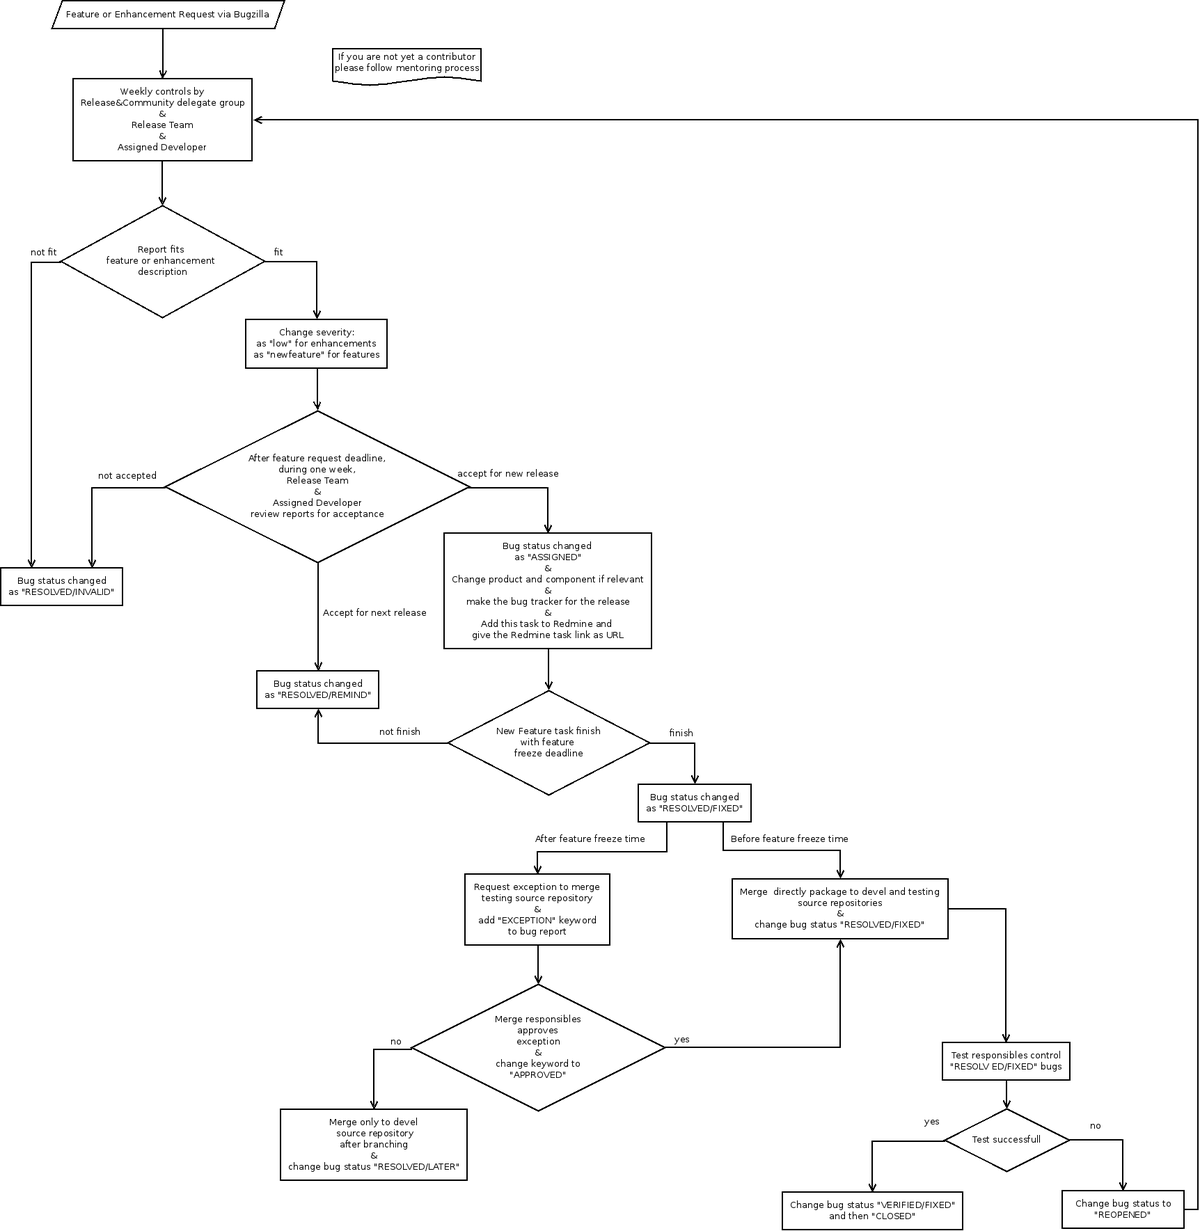
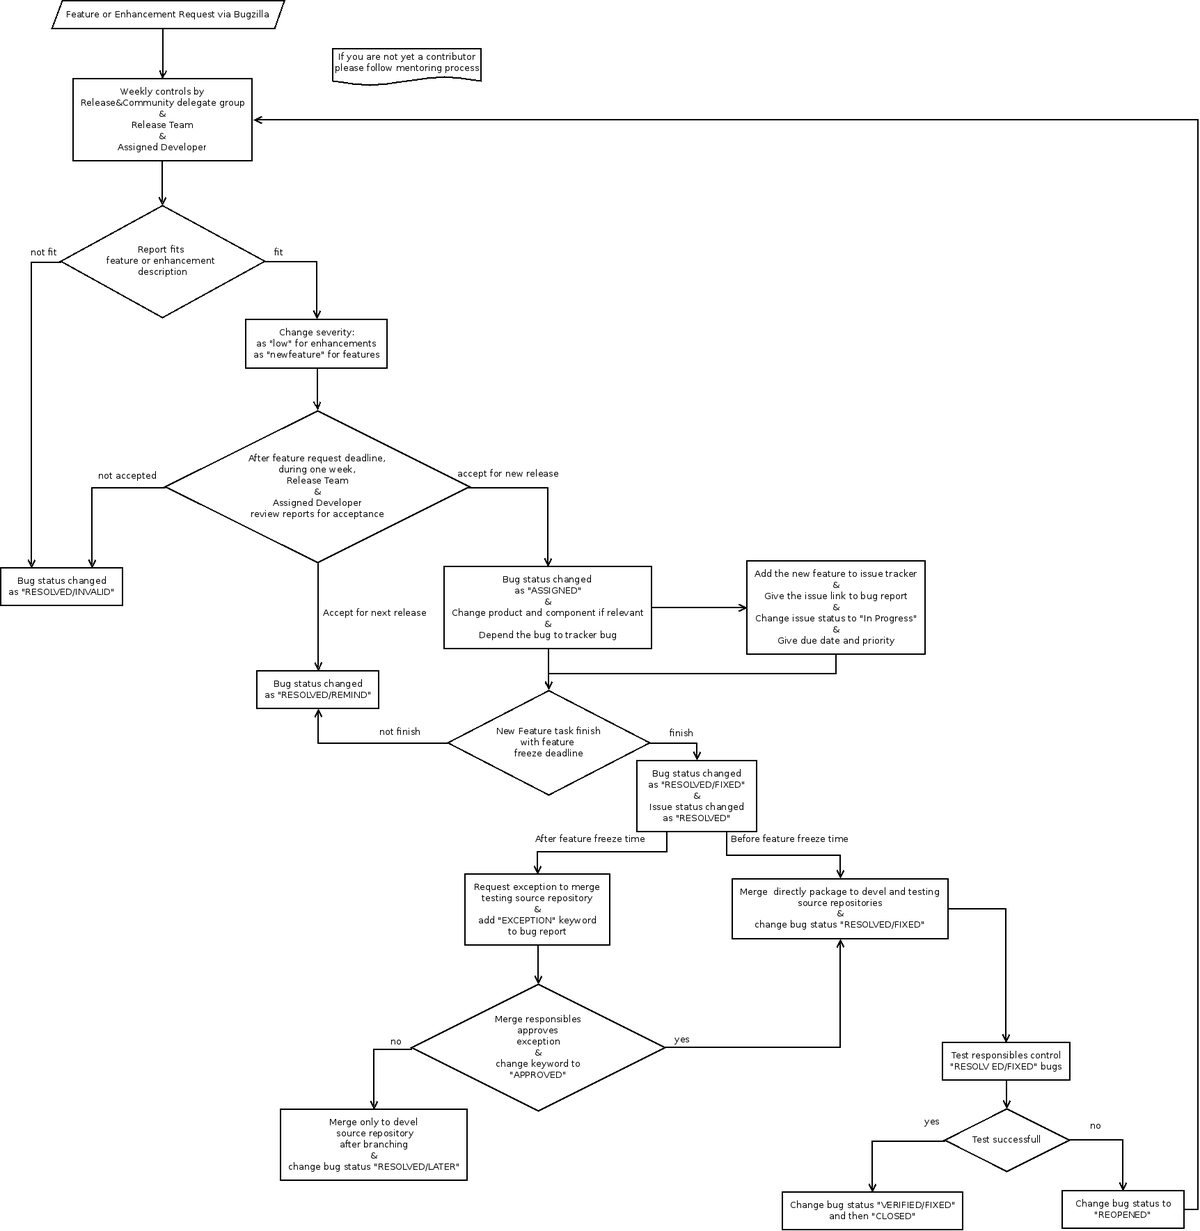
bug cycle, bug triage docs updated, priority and issue tracker part is added.

Changed region(s): [[0.3689, 0.4353, 0.5226, 0.5285], [0.5226, 0.6218, 0.6148, 0.684], [0.6456, 0.4664, 0.7378, 0.5285]]

diff --git a/doc/en/developer.pardus.org.tr/source/guides/bugtracking/bug_cycle.rst b/doc/en/developer.pardus.org.tr/source/guides/bugtracking/bug_cycle.rst
@@ -8,50 +8,85 @@
 :Version: 0.2
 
 Bug Cycle
-=========
+~~~~~~~~~
 
  .. image:: images/bugcycle.png
 
-This document gives information about Pardus bug tracking system process. The process that manage from Pardus bugzilla: package review, new contributor, security process are not included in this process.
+This document gives information about Pardus bug tracking system process.
 
-    #. When the bug is newly submitted it takes **NEW** status.
-        Some details needed when repoting a bug, see http://bugs.pardus.org.tr/page.cgi?id=bug-writing.html
+Bugzilla Status
+===============
 
-    #. Triage starts:
-        #. After the bug is submitting, if it needs additional information , the bug status left the same but the **NEEDINFO** keyword is added.
-        #. If the bug does not need any additional information:
-            #. The triager can change the severity:
-                - Severity is used to set how sewere the bug is. It can be set by a triager, but the triagers may not rechange the severity, when the assignee and/or package maintainer change the initial severity level chosen by the triager.
-                - Severities should be changed with following `bug importance`_ guide.
-            #. If the bug is an insolubale bug:
-                - WONTFIX: Bugs are not related to Pardus and will never be fixed
-                - DUPLICATE: Bugs which have duplicates which are already been reported
-                - REMIND: Bugs can be fixed for the next release or for a later time
-                - LATER: Bugs fixed and can be merged for the next release or for a later time
-                - INVALID: Bugs that are not realy a bug
-                - WORKSFORME: Bugs could not be reproduced
-                - NEXTRELEASE: Bugs fixed in next release
+Status gives the bug state.
 
-            #. Bugs set as a tracker bug of a release by only release managers or related component supervisor.
-    #. When triage is finished, the **TRIAGED** keyword is given.
-    #. When a developer starts to deal with the bug he/she changes the status to **ASSIGNED**.
-    #. If the bug fixed by its developer,
-
-        When the developer has been sure that the bug fixed, he/she should be fixed bug via SVN commits:
+**NEW**  When the bug is newly submitted it takes **NEW** status. Some details needed when repoting a bug, see http://bugs.pardus.org.tr/page.cgi?id=bug-writing.html
+**ASSIGNED** When a developer starts to deal with the bug he/she changes the status to **ASSIGNED**.
+**RESOLVED**  It can be set by a triager, but the triagers may not rechange the this status, when the assignee and/or package maintainer change the initial status chosen by the tria
+ger.
+     - WONTFIX: Bugs are not related to Pardus and will never be fixed
+     - DUPLICATE: Bugs which have duplicates which are already been reported
+     - REMIND: Bugs can be fixed for the next release or for a later time
+     - LATER: Bugs fixed and can be merged for the next release or for a later time
+     - INVALID: Bugs that are not realy a bug
+     - WORKSFORME: Bugs could not be reproduced
+     - NEXTRELEASE: Bugs are already fixed in current release, but will not fixed for (n-1) previous release
+     - FIXED: When the developer has been sure that the bug fixed, he/she should be fixed bug via SVN commits:
 
           The SVN commit should include::
 
             "BUG:FIXED:<BUGID>"
 
         This commmit will automatically change the resolution of the bug as **RESOLVED/FIXED**
-
-    #. The bug fixed program will pass the stable repository test process:
-        #. If the bug reproducible, the bug resolution is changed to **REOPENED**
-        #. If the bug can not be reproducible, it is left **RESOLVED/FIXED**
-        #. If new bugs found during stable repository tests, it should be reported by testers.
-
-    #. **REOPENED** bugs are reviewed again by assignee and will be fixed.
+**VERIFIED**
+        - FIXED: The fixed bug is pass the test, the bug resolution is changed to **VERIFIED/FIXED**
+**REOPENED** If the fixed bug test fail, the bug resolution is changed to **REOPENED**
+**CLOSED** If the bug pass test and merge to stable Pardus repositories
 
 
-.. _bug importance: http://developer.pardus.org.tr/guides/bugtracking/howto_bug_triage.html#bug-importance
+Bugzilla Severities
+===================
+
+Severity is used to set how sewere the bug is. It can be set by a triager, but the triagers may not rechange the severity, when the assignee and/or package maintainer change the initial severity level chosen by the tria
+ger.
+
+**Urgent:** Freeze, panics and crashes that reproducible on all type of systems and makes the whole system unusable and security related bugs. These bugs should fixed promptly.
+**High:** Bugs that are reproducible on all type of systems and makes the program unusable (packages which are totally unusable and have missing dependency, like being uninstallable or crashing on startup, bugs cause that cause loss of user data). These bugs should be fixed in 1 months.
+**Normal:** Bugs that are reproducible on all type of systems and makes a part of the program unusable. These bugs are probably be fixed in 6 months.
+**New feature:** New feature requests. These requests will probably be done for the next release.
+**Low:** The others - a cosmetic problem, such as a misspelled word or misaligned text or an enhancement, bugs that are not reproducible on all systems. These bugs are not schduled to fix in the next 6 months. This is not the same as planning not to fix the bug; it means that we don’t know when we will fix it, if at all.
+
+Notes: Hardware specific bugs generally seemed as urgent, but it should be generally high. Because urgent severity is used when the entire distribution does not work, but a bug restricted to a specific hardware usually has a high severity.
+
+Bugzilla Priorities
+===================
+
+Priority is used in release cycle operations and give timeline and precedence of work for alpha_ and beta_ phases. Pardus use 3 priority level in order to give the time interval of the issues.
+
+**P1** High priority features that should be fixed before `Alpha 1`_ release time. High priority bugs that should be fixed before `Beta 1`_ release time.
+**P2** Normal priority features that should be fixed before `_Alpha 2`_ release time. Normal priority bugs that should be fixed before `Beta 2`_ release time.
+**P3** Low priorty features that should be fixed before `Alpha 3`_ release time. Low priority bugs that should be fixed before `Beta 2`_ release time.
+
+Bugzilla Keywords
+=================
+
+**NEEDINFO**    Use when a bug needs and information or feedback from user.
+**TRIAGED**     Use when the bug is triaged and ready for developer.
+**UPSTREAM**    Use when the bug is filed to upstream developer and wait for the fix.
+**EXCEPTION**   Use when the bug needs a new feature or new bug exception
+**MERGEREQUEST** Use when the bug fix needs a merge request for testing source repository
+**APPROVED** Use when the merge or exception request is approved
+**MERGED** Use when the bug is merged to testing source repository
+**COMPILED** Use when the bug is fixed, merged and compiled in testing source repository
+**JUNIORJOBS**  Use when a bug is chosen as a junior job for expected developers
+**NEEDSMENTORING** Use when the expected developer choosed a bug and fixed it, and wants to see fix in Pardus repositories
+**MENTORED** Use when the developer takes review and merge responsibility of an expected developer bug
+**MENTORASSIGNED**  Use when assigne a mentor to developer applicant
+
+.. _alpha: http://developer.pardus.org.tr/guides/releasing/official_releases/alpha_phase.html
+.. _Alpha 1: http://developer.pardus.org.tr/guides/releasing/official_releases/alpha_phase.html#alpha-1
+.. _Alpha 2: http://developer.pardus.org.tr/guides/releasing/official_releases/alpha_phase.html#alpha-2
+.. _Alpha 3: http://developer.pardus.org.tr/guides/releasing/official_releases/alpha_phase.html#alpha-3
+.. _beta: http://developer.pardus.org.tr/guides/releasing/official_releases/alpha_phase.html
+.. _Beta 1: http://developer.pardus.org.tr/guides/releasing/official_releases/alpha_phase.html#beta-1
+.. _Beta 2: http://developer.pardus.org.tr/guides/releasing/official_releases/alpha_phase.html#beta-2
 

diff --git a/doc/en/developer.pardus.org.tr/source/guides/bugtracking/howto_bug_triage.rst b/doc/en/developer.pardus.org.tr/source/guides/bugtracking/howto_bug_triage.rst
@@ -21,34 +21,6 @@ Understanding Bugzilla
 
     * See `bug cycle`_
 
-Bug Importance
---------------
-
-We use four types of bug importances and give each a specific meaning and time interval:
-
-Urgent:
-^^^^^^^
-`Freeze, panics`_ and crashes_ that reproducible on all type of systems and makes the whole system unusable and **security** related bugs. These bugs should fixed promptly.
-
-High:
-^^^^^
-Bugs that are reproducible on all type of systems and makes the program unusable (packages which are totally unusable and have missing dependency, like being uninstallable or crashing_ on startup, bugs cause that cause loss of user data). Default desktop application language problems are seemed to be also high. These bugs should be fixed in 1 months.
-
-Normal:
-^^^^^^^
-Bugs that are reproducible on all type of systems and makes a part of the program unusable. These bugs are probably be fixed in 6 months.
-
-New feature:
-^^^^^^^^^^^^
-New feature requests. These requests will probably be done for the next release.
-
-Low:
-^^^^
-The others - a cosmetic problem, such as a misspelled word or misaligned text or an enhancement, bugs that are not reproducible on all systems. These bugs are not schduled to fix in the next 6 months. This is not the same as planning not to fix the bug; it means that we don't know when we will fix it, if at all.
-
-**Notes:**  Hardware specific bugs generally seemed as urgent, but it should be generally high. Because urgent severity is used when the entire distribution does not work, but a bug restricted to a specific hardware usually has a high severity.
-
-
 Check list for bugs have NEW status
 -----------------------------------
 
@@ -56,12 +28,12 @@ This checklist is used for bugs which have **NEW** status.
 
 #. Does the bug report mention about a real bug?
 
-    * In some cases, users need some help about configuring or using software. These reports are not related with bug or feature request. These type of reports should be closed with RESOLVED/INVALID resolution, and a polite comment should be give in order to guide user to related forums or mail lists.
+    * In some cases, users need some help about configuring or using software. These reports are not related with bug or feature request. These type of reports should be closed with **RESOLVED/INVALID** resolution, and a polite comment should be give in order to guide user to related forums or mail lists.
 
 #. Is the bug product and component right?
 
     * To take technical assistance please see :ref:`correct-component`.
-    * If the bug component is assigned to wrong, it should be changed.
+    * If the bug component is wrong, it should be changed.
     * In some cases, it is not possible to find correct component, until the source code is examined. In such a situation, you can take help from assigned developer.
 
 #. Has the bug a duplicate?
@@ -102,7 +74,7 @@ This checklist is used for bugs which have **NEW** status.
 
     During bug triage process, it is very important to state bug severity. Most bugs assigned with severity **Normal**, but the severity of the bug should change related to different `bug importances`_.
 
-#. Is the bug a blocker bug? (For release tracker bugs)
+#. Is the bug a tracker bug? (For `release tracker bugs`_)
 
     Only ongoing releases has tracker bugs. If a bug is a tracker bug of one of the ongoing release it should be fixed before the release time. When it did not fix, it delays the release. Therefore the bug numbers which has a power to block the release should be set to "Depends on" part of release tracker bug.
 
@@ -199,7 +171,7 @@ First Steps to Contribute Triaging
 #. When you feel ready for triaging, please send a message to `test list`_ with your triaged bug ids, the experienced triagers will review your triaged bugs and approve your triaging request (At this point, you will take permissions for changing bug status, severity etc. to deeply triage).
 
 .. _bug cycle: http://developer.pardus.org.tr/guides/bugtracking/bug_cycle.html
-.. _bug importances: http://developer.pardus.org.tr/guides/bugtracking/howto_bug_triage.html#bug-importance
+.. _bug importances: http://developer.pardus.org.tr/guides/bugtracking/bug_cycle.html#bugizlla-severities
 .. _Freeze, panics: http://developer.pardus.org.tr/guides/bugtracking/bug_and_feature_requests.html?highlight=crash#freeze-and-panics
 .. _crashes: http://developer.pardus.org.tr/guides/bugtracking/bug_and_feature_requests.html?highlight=crash#crashes
 .. _crashing: http://developer.pardus.org.tr/guides/bugtracking/bug_and_feature_requests.html?highlight=crash#crashes
@@ -211,3 +183,4 @@ First Steps to Contribute Triaging
 .. _test list: http://lists.pardus.org.tr/mailman/listinfo/testci
 .. _duplicate bug stock response: http://developer.pardus.org.tr/guides/bugtracking/stock_responses.html#duplicate-bugs
 .. _more than one issues on same bug stock response: http://developer.pardus.org.tr/guides/bugtracking/stock_responses.html#more-than-one-issues-reported-in-one-bug
+.. _release tracker bugs: http://developer.pardus.org.tr/guides/bugtracking/tracker_bug_process.html

diff --git a/doc/en/developer.pardus.org.tr/source/guides/bugtracking/tracker_bug_process.rst b/doc/en/developer.pardus.org.tr/source/guides/bugtracking/tracker_bug_process.rst
@@ -10,7 +10,7 @@ Tracker Bug Process
 ===================
 
 Tracker bugs are used to keep track of release blocker bugs. These bugs must be
-fixed before these related release is shipped.
+fixed before related release has shipped.
 
 Each release requirements are used to determine whether a bug is a tracker bug
 for given release (see alpha_, beta_, final_ requirements)
@@ -24,7 +24,7 @@ Open Tracker Bug Report
 Tracker bug report shoul be opened by release manager at the start time of
 a new release.
 
-There are four blocker bugs for each release cycle. These reports should be
+There are four tracker bugs for each release cycle. These reports should be
 opened for relevant release product baselayout component and they should be
 assigned to relevant release manager.
 
@@ -44,23 +44,29 @@ of the tracker bug into the "Blocks:" field in Bugzilla.
 
 When proposing a bug as a tracker, please control whether the bug violates the
 relevant release requirements.
+See:
+
+    - alpha_ requirements
+    - beta_ requirements
+    - rc_ requirements
+    - final_ requirements
 
 Reviewing Tracker Bugs
 ----------------------
 
 The tracker bugs are approved or rejected by the collaboration of three groups:
-Test_, Development_, Release Managing.
+Test_, Development_, Release Team.
 
 
 The review process can be done on weekly meetings, generally occur on Monday
 during release. We plan to make also public weekly IRC meetings for tracker bug
 reviews. These reviews can also be done on "where are we" meetings in order to
 decide whether a test release for validation should be approved as an `official
-release`_.
+release`_ or delayed.
 
 The Bug ID's that are rejected as trackers will be removed from tracker bugs. If
 the bug not rejected but will be done for the next release it should be marked
-for next release.
+as **RESOLVED/LATER** for fixed bugs and **RESOLVED/REMIND** for bugs not fixed yet.
 
 The accepted bugs as tracker will continue to block the tracker bug, and will be
 fixed before the release time.
@@ -71,12 +77,16 @@ Tracking Tracker Bugs
 Tracking tracker bugs and controlling that they are fixed is again an collaborative
 affort between Test_, Development_, Release Managing.
 
-The fixing process is the general `bug cycle`_.
+The fixing process are `new feature`_, `new package`_, `package update`_ processes.
 
-.. _alpha: http://developer.pardus.org.tr/guides/releasing/official_releases/alpha_release.html#alpha-release-requirements
-.. _beta: http://developer.pardus.org.tr/guides/releasing/official_releases/beta_release.html#beta-release-requirements
-.. _final: http://developer.pardus.org.tr/guides/releasing/official_releases/final_release.html#final-release-requirements
+.. _alpha: http://developer.pardus.org.tr/guides/releasing/official_releases/alpha_phase.html#alpha-release-requirements
+.. _beta: http://developer.pardus.org.tr/guides/releasing/official_releases/beta_phase.html#beta-release-requirements
+.. _final: http://developer.pardus.org.tr/guides/releasing/official_releases/final_phase.html#final-release-requirements
+.. _rc: http://developer.pardus.org.tr/guides/releasing/official_releases/release_candidate_phase.html#final-release-requirements
 .. _Development: http://developer.pardus.org.tr/guides/newcontributor/areas-to-contribute.html#development
 .. _Test: http://developer.pardus.org.tr/guides/newcontributor/areas-to-contribute.html#test
 .. _official release: http://developer.pardus.org.tr/guides/releasing/official-releases/index.html
 .. _bug cycle: http://developer.pardus.org.tr/guides/bugtracking/bug_cycle.html
+.. _new feature: http://developer.pardus.org.tr/guides/newfeature/newfeature_requests.html
+.. _new package: http://developer.pardus.org.tr/guides/newfeature/new_package_requests.html
+.. _package update: http://developer.pardus.org.tr/guides/packaging/package_update_process.html

diff --git a/doc/en/developer.pardus.org.tr/source/guides/newfeature/newfeature_requests.rst b/doc/en/developer.pardus.org.tr/source/guides/newfeature/newfeature_requests.rst
@@ -112,16 +112,21 @@ The requests that came from bugzilla are reviewed by release team, related team 
 Acceptance of New Feature Request
 ^^^^^^^^^^^^^^^^^^^^^^^^^^^^^^^^^
 
-There exist also another deadline that is the new feature acceptence deadline. Before this deadline, all "newfeature" and "low" severity bugs reviewed by release manager and assigned developer during one week. The aim of this review is to decide whether the feature is accepted for new Pardus Release.
+There exist also another deadline that is the new feature acceptence deadline. Before this deadline, all "newfeature" and "low" severity bugs reviewed by release team, team leaders and assigned developer during one week. The aim of this review is to decide whether the feature is accepted for new Pardus Release.
 
 #. Release team, related team leader and assigned developer review "low" and "newfeature" severity bugs.
     #. If the new feature request is not suitable for `What is a Feature?`_ description, the report status is marked with **RESOLVED/INVALID**.
     #. If this new feature can not be done for this new release but may be done for the next new release, the report status is marked with **RESOLVED/REMIND**.
     #. If this new feaure is suitable for `What is a Feature?`_ description, and can be accepted for this new release:
         #. One of the developers will start to deal with this feature and the report status is marked with **ASSIGNED**.
+        #. The priorty is changed by release team
         #. If necessary the product and component can be changed.
         #. The bug report is marked as the tracker bug of the related release.
-        #. When the bug is became a task in the project management tool, the task is assigned to relevant developer and the task url is given to URL part of the bug report.
+        #. When the bug is became a task in `issue tracking tool`_:
+            - The task is assigned to relevant developer
+            - When the developer start to deal with the bug change the status to **In Progress**
+            - The task url is given to URL part of the bug report.
+            - Due date and priority is given to the task
         #. The SVN commit messages should be traceable in order to enable users to follow changes via bugzilla and issue tracking tool.
 
 Accomplishment of New Feature
@@ -129,8 +134,15 @@ Accomplishment of New Feature
 
 There exist a deadline for the accomplishment of the new feature (`feature freeze time`_).
 
+Bugzilla Part
+.............
     #. If the developer can not be finish the work in due time, the status of the bug report is marked as **RESOLVED/LATER** and the new feature is left to next release.
     #. If the developer can finish the work in time, the bug status is marked as **RESOLVED/FIXED** via SVN commits of the developer.
+
+Issue Tracker Part
+...................
+    #. If the developer can finish the work in time, the bug status is marked as **RESOLVED**.
+    #. If the task could not have been finished in time, the task is left open.
 
 After freeze time new feature can be accepted under some `exceptional circumstances`_.
 
@@ -152,3 +164,4 @@ If the bug status is marked as:
 .. _exceptional circumstances: http://developer.pardus.org.tr/guides/releasing/freezes/freeze_exception_process.html
 .. _new package request:  http://developer.pardus.org.tr/guides/newfeature/new_package_request.html
 .. _mentoring process: http://developer.pardus.org.tr/guides/newcontributor/mentoring_process.html
+.. _issue tracking tool: http://tracker.pardus.org.tr/

diff --git a/doc/en/developer.pardus.org.tr/source/guides/releasing/official_releases/release_process.rst b/doc/en/developer.pardus.org.tr/source/guides/releasing/official_releases/release_process.rst
@@ -98,7 +98,7 @@ Alpha 1
 Intrusive changes phase completed (about 2 months)
 
 - `Open developement`_
-- High priority features and tasks finished
+- High (P1) priority features and tasks finished 
 
 See details from `Alpha phase`_
 
@@ -107,7 +107,7 @@ Alpha 2
 (about 2 weeks)
 
 - `Open developement`_
-- Medium priority tasks and features finished
+- Medium (p2) priority tasks and features finished
 - At the end of this period, all remamined features reviewed and reprioritized or ignored if needed.
 
 See details from `Alpha phase`_
@@ -118,7 +118,7 @@ Feature development phase completed (about 2 weeks)
 
 - `Open developement`_
 - Where we are meeting to review bugs and possibility to prolonge release.
-- Low priority tasks and features finished
+- Low (P3) priority tasks and features finished
 - `Feature freeze`_
 - `Repo branching`_ for main/base repo
 - `String freeze`_
@@ -130,7 +130,7 @@ Beta 1
 Stabilization phase (about 3 week)
 
 - Review Beta `tracker bugs`_
-- Finish urgent and high priority `tracker bugs`_
+- Finish high (P1) priority `tracker bugs`_
 - Announce EOL of 2 previous release
 - Translation and user documentation check
 
@@ -141,7 +141,7 @@ Beta 2
 Stabilization phase completed (about 2 week)
 
 - Where we are meeting to review bugs and possibility to prolonge release.
-- Finish all normal, low priority `tracker bugs`_
+- Finish all normal (P2), low (P3) priority `tracker bugs`_
 - `Toolchain freeze`_ ?
 - `User interface freeze`_
 - `Beta freeze`_

diff --git a/doc/en/developer.pardus.org.tr/source/guides/releasing/official_releases/alpha_phase.rst b/doc/en/developer.pardus.org.tr/source/guides/releasing/official_releases/alpha_phase.rst
@@ -67,7 +67,7 @@ Alpha 1
 8-4 week before the Alpha 1:
 ----------------------------
 
-#. Intrusive changes phase completed (All high priority features and tasks finished)
+#. Intrusive changes phase completed (All high (P1) priority features and tasks finished)
 #. Create default applications list for desktop menu
 #. Send weekly emails about `urgent package list`_
 #. Start for artwork Pardus
@@ -99,7 +99,7 @@ Alpha 2
 3-2 week before Alpha 2:
 ------------------------
 
-#. Medium priority tasks and features finished
+#. Medium (P2) priority tasks and features finished
 #. At the end of this period, all remained features reviewed and reprioritized or ignored if needed.
 
 1 week before Alpha 2:
@@ -124,7 +124,7 @@ Alpha 3
 ------------------------
 
 #. "Where we are meeting" to review bugs and possibility to prolonge release.
-#. Low priority tasks and features finished
+#. Low (P3) priority tasks and features finished
 #. Warn about `Feature freeze`_ one week before
 #. Warn about `Repo branching`_ one week before
 #. Warn about `String freeze`_

diff --git a/doc/en/developer.pardus.org.tr/source/guides/releasing/official_releases/beta_phase.rst b/doc/en/developer.pardus.org.tr/source/guides/releasing/official_releases/beta_phase.rst
@@ -58,7 +58,7 @@ Beta 1
 -----------------------
 
 #. Review `tracker bugs`_ and no urgent and high bugs present
-#. Finish urgent and high priority `tracker bugs`_
+#. Finish high (P1) priority `tracker bugs`_
 #. Create a list for promotion and publicity materials
 #. Plan and start for artwork pardus
 
@@ -85,7 +85,7 @@ Beta 2
 1 week before Beta 2:
 ---------------------
 
-#. Finish all normal, low priority `tracker bugs`_
+#. Finish all normal (P2), low (P3) priority `tracker bugs`_
 #. `Toolchain freeze`_ start
 #. Warn developers about:
 
